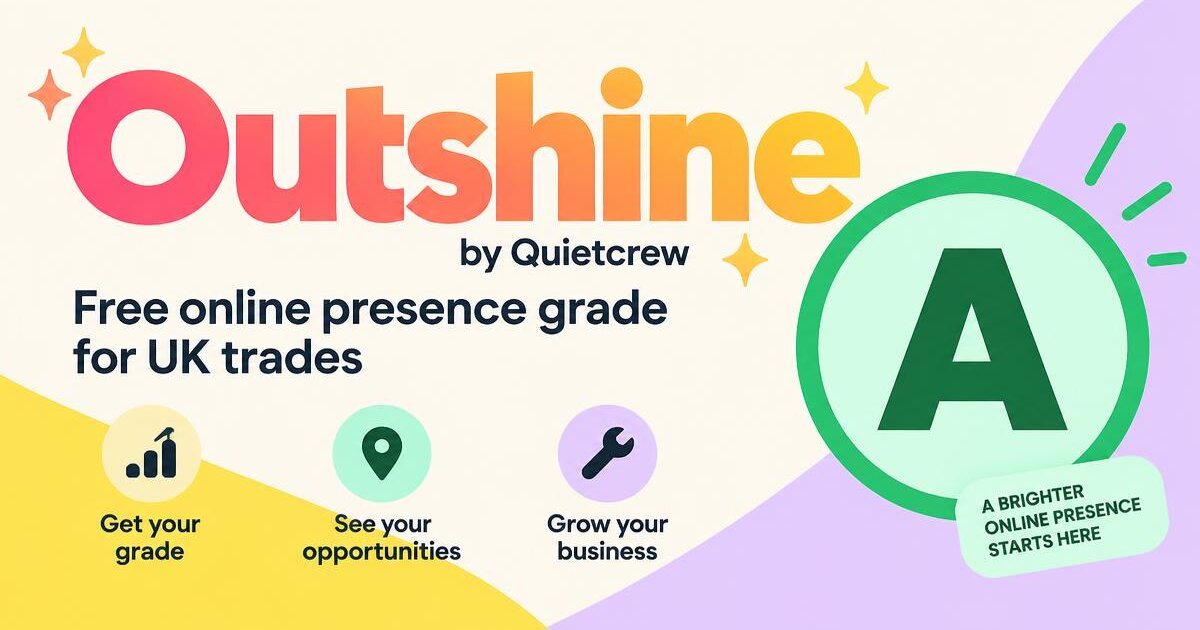
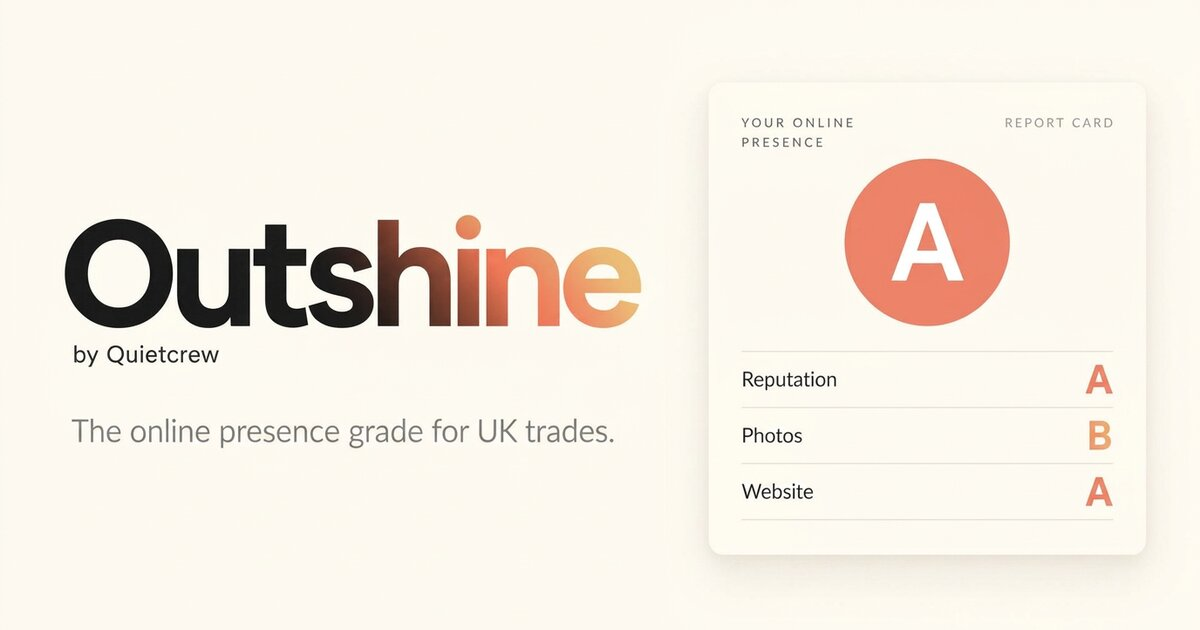
Changes

diff --git a/roadmap.md b/roadmap.md
@@ -12,4 +12,4 @@
 - [x] All-clear reports give tips and a reference example; free report downloadable
 - [ ] Fix Stripe checkout blank pages (next, awaiting user)
 - [ ] Final name (blocked: user)
-- [ ] Redo sharing image in a refined, grown-up style (user found first one childish)
+- [x] Redo sharing image in a refined, grown-up style (user found first one childish)
